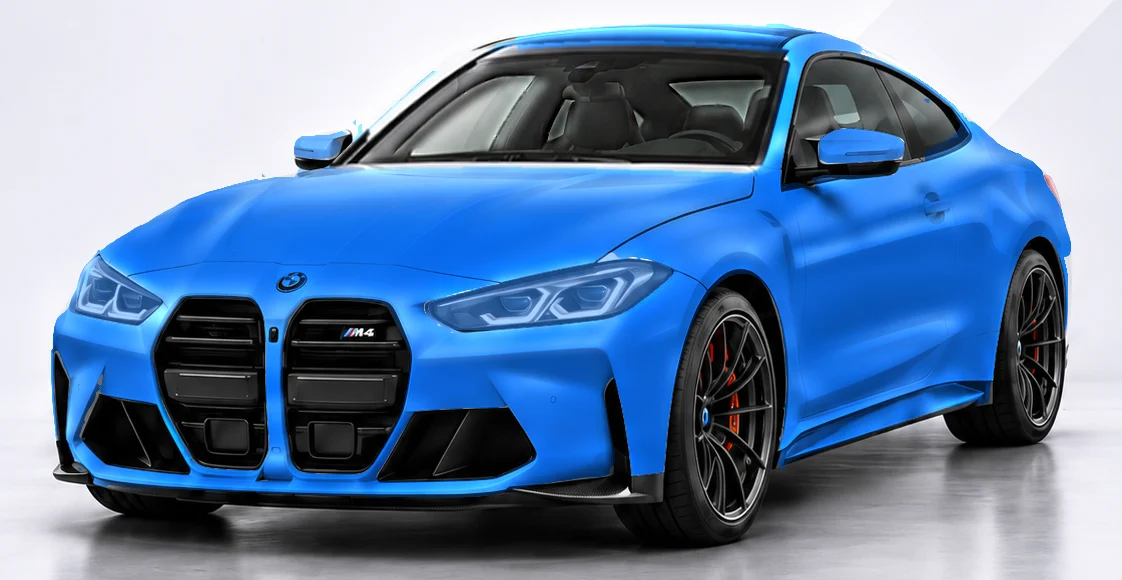
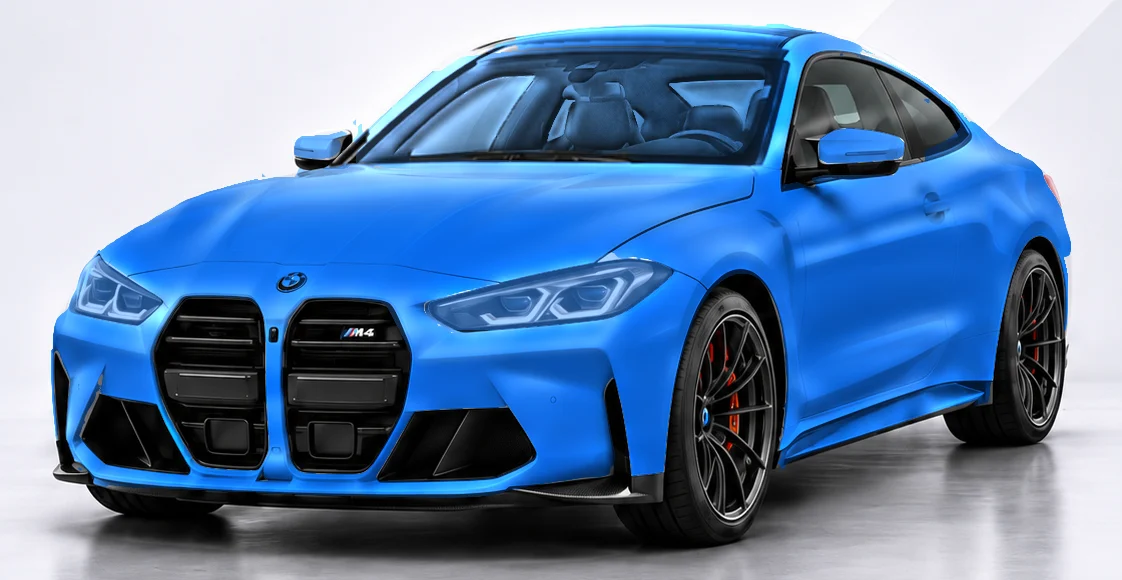
PPF: Full Front includes headlights, Full Coverage includes windshield film
- Full Front diagram and ad card now highlight the headlights; coverage list updated
- Full Coverage diagram shows the windshield filmed; windshield film added to its list
- Full Front + list no longer repeats headlights (covered by 'Everything in Full Front')

Claude-Session: https://claude.ai/code/session_019td1HJoPsyowu8fFACNerY

Changed region(s): [[0.2807, 0.0621, 0.7175, 0.3103]]

diff --git a/src/data/pricing.ts b/src/data/pricing.ts
@@ -507,9 +507,9 @@ export const memberPriceFor = (pkg: AutoPackage, size: VehicleSizeId): number | 
  */
 export const CAR_PPF = [
   { id: "partial-front", name: "Partial", price: 999, time: "1 day", forWho: "Daily drivers that see city streets more than highways.", covers: ["Front bumper", "Leading half of the hood", "Leading half of the front fenders", "Mirror caps"] },
-  { id: "full-front", name: "Full Front", price: 1899, popular: true, time: "1 day", forWho: "Highway commuters and new vehicles. No seam line on the hood.", covers: ["Front bumper", "Full hood", "Full front fenders", "Mirror caps"] },
-  { id: "track-pack", name: "Full Front +", price: 2899, time: "1–2 days", forWho: "Gravel roads, mountain trips and lowered or performance cars.", covers: ["Everything in Full Front", "Headlights", "A-pillars and roof leading edge", "Rocker panels"] },
-  { id: "full-vehicle", name: "Full Coverage", price: 5999, time: "2–3 days", forWho: "Collector, exotic and long-term vehicles.", covers: ["Every painted panel", "Headlights and mirror caps", "Wrapped edges wherever possible"] },
+  { id: "full-front", name: "Full Front", price: 1899, popular: true, time: "1 day", forWho: "Highway commuters and new vehicles. No seam line on the hood.", covers: ["Front bumper", "Full hood", "Full front fenders", "Headlights", "Mirror caps"] },
+  { id: "track-pack", name: "Full Front +", price: 2899, time: "1–2 days", forWho: "Gravel roads, mountain trips and lowered or performance cars.", covers: ["Everything in Full Front", "A-pillars and roof leading edge", "Rocker panels"] },
+  { id: "full-vehicle", name: "Full Coverage", price: 5999, time: "2–3 days", forWho: "Collector, exotic and long-term vehicles.", covers: ["Every painted panel", "Windshield film", "Headlights and mirror caps", "Wrapped edges wherever possible"] },
 ];
 
 export const PPF_UPCHARGE = { truckSuvPct: 15, exoticPct: 25 };

diff --git a/src/pages/CarPPF.tsx b/src/pages/CarPPF.tsx
@@ -183,7 +183,7 @@ const CarPPF = () => {
             <div>
               <p className="eyebrow">Add-on</p>
               <p className="mt-1 font-heading text-2xl font-bold text-ink">Windshield only</p>
-              <p className="mt-1 text-sm text-ink-2">Clear film for the glass, on its own or with any package. Backed by the manufacturer's 2-year / 50,000 km warranty.</p>
+              <p className="mt-1 text-sm text-ink-2">Clear film for the glass, on its own or added to a front-end package. Included in Full Coverage. Backed by the manufacturer's 2-year / 50,000 km warranty.</p>
             </div>
             <p className="num shrink-0 text-3xl text-ink">From {money(windshieldFrom)}</p>
           </div>
